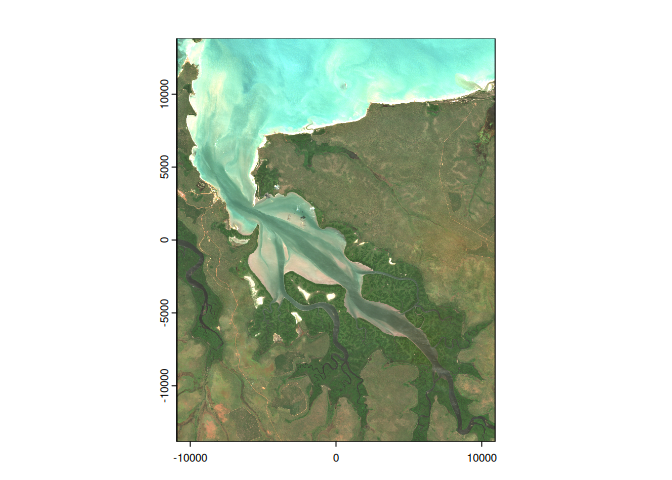
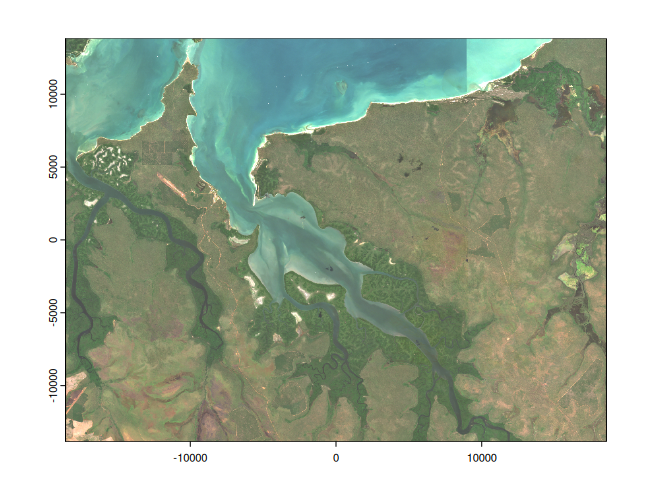
update readme

diff --git a/README.md b/README.md
@@ -59,13 +59,13 @@ library(tictoc)
 
 bbox <- gdalraster::bbox_from_wkt(
   wkt = wk::wkt("POINT (130.75 -11.45)"),
-  extend_x = 0.1, extend_y = 0.125
+  extend_x = 0.17, extend_y = 0.125
 )
 
 s2_vrt <- sentinel2_stac_vrt(
   bbox = bbox,
   start_date = "2023-01-01",
-  end_date = "2023-04-30",
+  end_date = "2023-05-30",
   assets = c(
     # "B01",
     "B02", "B03", "B04"
@@ -85,18 +85,19 @@ print(s2_vrt)
 #> [3] <VRTRasterBand dataType="UInt16" band="1" Description="B02">\n  <NoDataVa ...
 #> [4] <VRTRasterBand dataType="UInt16" band="2" Description="B03">\n  <NoDataVa ...
 #> [5] <VRTRasterBand dataType="UInt16" band="3" Description="B04">\n  <NoDataVa ...
+#> [6] <OverviewList resampling="nearest">2 4 8 16</OverviewList>
 #> 
 #> $bbox
-#> [1] 130.650 -11.575 130.850 -11.325
+#> [1] 130.580 -11.575 130.920 -11.325
 #> 
 #> $start_date
 #> [1] "2023-01-01"
 #> 
 #> $end_date
-#> [1] "2023-04-30"
+#> [1] "2023-05-30"
 #> 
 #> $n_items
-#> [1] 4
+#> [1] 9
 #> 
 #> $assets
 #> [1] "B02" "B03" "B04"
@@ -118,14 +119,14 @@ s2_composite <- vrt_composite(
 
 ``` r
 toc()
-#> 19.927 sec elapsed
+#> 41.807 sec elapsed
 ```
 
 ``` r
 
 terra::plotRGB(
   terra::rast(s2_composite), 3, 2, 1,
-  stretch = "lin", zlim = c(700, 2200), zcol = TRUE,
+  stretch = "lin", zlim = c(500, 2200), zcol = TRUE,
   mar = c(2, 2, 2, 2),
   axes = TRUE
 )
